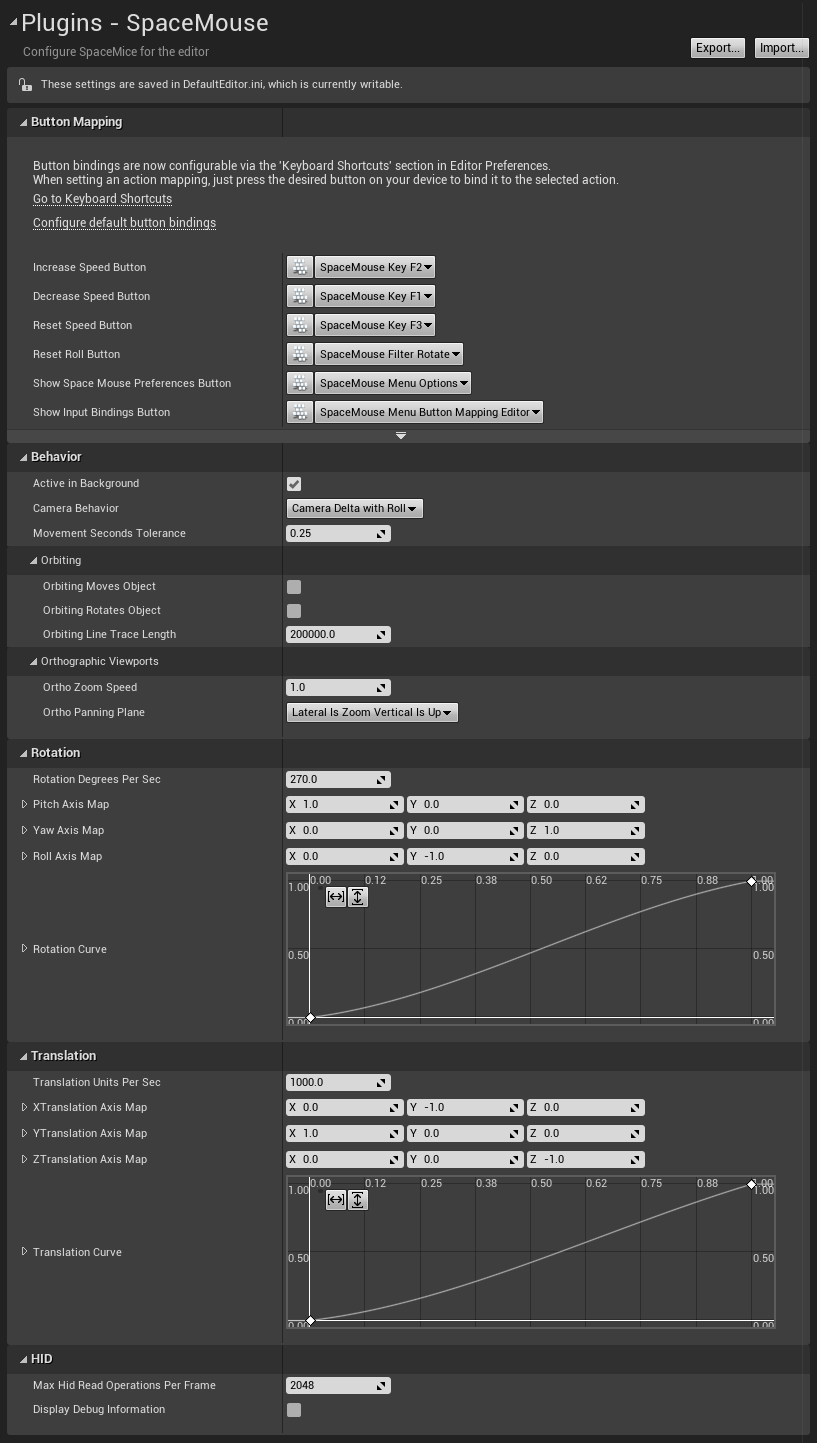
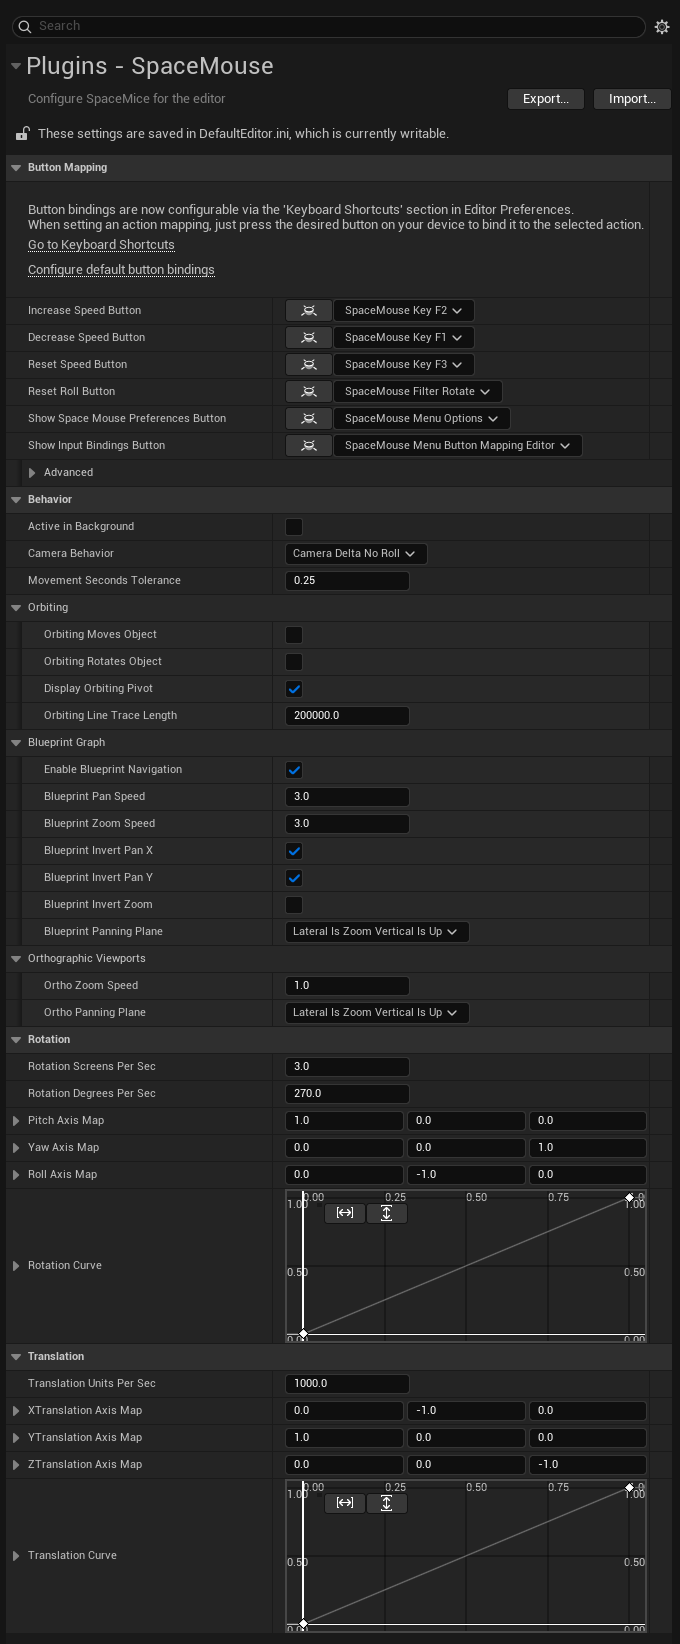
docs

diff --git a/README.md b/README.md
@@ -12,12 +12,15 @@ Previously "SpaceMouse for Unreal Engine" or "UE4-SpaceMouse". Name is changed t
   - [Behavior](#behavior)
     - [Orbiting](#orbiting)
     - [Orthographic viewports](#orthographic-viewports)
+    - [Blueprint and other graphs](#blueprint-and-other-graphs)
   - [Axis configuration](#axis-configuration)
   - [Misc](#misc)
 - [More info](#more-info)
   - [Changelog](#changelog)
-  - [Major changes from version 1.2](#major-changes-from-version-12)
-  - [Major changes from version 1.1](#major-changes-from-version-11)
+  - [Major changes in 2.0](#major-changes-in-20)
+  - [Major changes in 1.3](#major-changes-in-13)
+  - [Major changes in 1.2](#major-changes-in-12)
+  - [Major changes in 1.1](#major-changes-in-11)
   - [Build a release](#build-a-release)
   - [Build a release for Linux](#build-a-release-for-linux)
   - [Note on macOS support](#note-on-macos-support)
@@ -27,17 +30,18 @@ Previously "SpaceMouse for Unreal Engine" or "UE4-SpaceMouse". Name is changed t
 
 # Installation
   
-**Pre-Compiled for UE 4.23 .. 4.26.**
+**Pre-Compiled for Windows.**
 
 Demo video: https://youtu.be/owcSTzs8p-8
 
 **[Download manually for free](https://github.com/microdee/OpenUnrealSpaceMouse/releases/latest)**
 
-**[Buy it via the Marketplace](https://www.unrealengine.com/marketplace/en-US/product/spacemouse-for-unreal-engine)**
-
-**If you have a code project just use this repo as submodule**
-```
+**If you have a code project and want to compile this plugin instead then submodule this repository, submodule [MCRO](https://mcro.de/mcro/), and prepare them with [Nuke.Unreal](https://mcro.de/Nuke.Unreal/)**
+```pwsh
 git submodule add https://github.com/microdee/OpenUnrealSpaceMouse.git Plugins/SpaceMouse
+git submodule add https://github.com/microdee/mcro.git Plugins/MCRO
+# install Nuke.Unreal to your project
+nuke generate
 ```
 
 ## [Disclaimer about the new official plugin shipped by 3DConnexion](DISCLAIMER.md)
@@ -58,7 +62,7 @@ You can control any 3D editor viewport (Perspective or Ortho) currently in focus
 
 Transition speed is controllable via the camera speed setting and the camera speed scalar of the viewport. Camera speed can be increased or decreased with configurable buttons on the spacemice. Multiple devices are supported however their data is merged together into a global context.
 
-On default speeds (speed setting = 4) transition velocity is 1000 units/sec by default and rotation speed is 270°/sec by default. Rotation speed is not affected by camera speed settings. You can change these in the **Editor Preferences -> Plugins -> SpaceMouse** section.
+On default speeds transition velocity is 1000 units/sec. By default rotation speed is 270°/sec on Orbit camera modes and Roll. Rotation speed is not affected by camera speed settings. However it is affected by viewport FOV in CameraDelta modes. You can change these in the **Editor Preferences -> Plugins -> SpaceMouse** section.
 
 ![](Docs/Images/settings.png)
 
@@ -94,9 +98,9 @@ There's a pre-defined default set of bindings you can activate by clicking on _"
 
 **Orbiting Moves/Rotates Object** When true, SpaceMouse represents the Delta movement of "the object" in front of the camera (meaning axes are inverted)
 
-**Orbiting at Fixed Pivot Distance** When enabled, sets a fixed distance for the orbiting mode in UE4 units (usually cm).
+**Orbiting at Fixed Pivot Distance** When enabled, sets a fixed distance for the orbiting mode in Unreal units (usually cm).
 
-**Orbiting Line Trace Length** is the maximum possible radius of the orbiting behavior in UE4 units (usually cm).
+**Orbiting Line Trace Length** is the maximum possible radius of the orbiting behavior in Unreal units (usually cm).
 
 ### Orthographic viewports
 
@@ -108,31 +112,43 @@ Camera controls are slightly different when controlling an Orthographic viewport
 * **Lateral Is Zoom, Vertical Is Up**: Move puck orthogonal to the plane of the Monitor to move around, Push Forward / Pull Backward to zoom.
 * **Lateral Is Up, Vertical Is Zoom**: Move puck orthogonal to the plane of the Desk to move around, Push Down / Pull Up to zoom.
 
+### Blueprint and other graphs
+
+Navigating Blueprints and other visual DSL graphs in Unreal Editor is done the same way as Orthographic vieports. However they can be configured separately in **Blueprint Graph** category.
+
 ## Axis configuration
 
-**Axis mappings** are conversions between the space of spacemice and the space of UE4. You can invert rotations and translations here by flipping the sign. The default values are my subjective preferences (as you can see in the coordinate system image above).
+**Axis mappings** are conversions between the space of spacemice and the space of Unreal. You can invert rotations and translations here by flipping the sign. The default values are my subjective preferences (as you can see in the coordinate system image above).
 
 **Rotation/Translation Curve** are defining the 0..1 curvature from resting state to fully pushed/pulled state of the SpaceMouse puck. Dead-zone, clamping, exponent or other less useful transformations can be expressed with this. Default is 0..1 linear curve, which means no effect.
 
 ## Misc
 
-**Display Debug Information** prints HID data onto the viewport. You don't need to change **Max Hid Read Operations Per Frame**. Just ignore it.
-
 [Report bugs](https://github.com/microdee/OpenUnrealSpaceMouse/issues)
 
 [Have any feedback or ideas? Go to Discussions!](https://github.com/microdee/OpenUnrealSpaceMouse/discussions)
-
-[Unreal Forum (please prefer Github Discussions)](https://forums.unrealengine.com/unreal-engine/feedback-for-epic/437-support-for-space-navigator-3d-mouse?p=1609440#post1609440)
 
 # More info
 
 ## [Changelog](CHANGELOG.md)
 
-## Major changes from version 1.2
+## Major changes in 2.0
+
+* Rewritten in new and even more modular architecture.
+* SpaceMouse Enterprise has all its buttons working.
+* No need to restart the editor for plugging in new devices.
+* Automatically disable default 3DxWare mappings for Unreal Editor only.
+  * This fixes the ancient "bug" of "camera is jumping forward/backward"
+
+## Major changes in 1.3
+
+[@litruv](https://github.com/litruv) added graph navigation feature to this plugin, so you can navigate smoothly in you Blueprints, Materials, Niagara systems, or any other visual DSL in Unreal. In the same style as Blender allows you to do with the space-mice in their node-editors.
+
+## Major changes in 1.2
 
 The structure of SpaceMouse preferences has changed significantly. Upon updating from prior versions (<= 1.1.x) you might need to re-configure the plugin. Don't worry though, the button binding UX has been improved significantly.
 
-## Major changes from version 1.1
+## Major changes in 1.1
 
 Upon updating from prior versions (<= 1.0.x pre-marketplace) please delete both HIDUE and SpaceMouse plugins from your Engine or Project plugins folder!
 
@@ -142,7 +158,16 @@ Upon updating from prior versions (<= 1.0.x pre-marketplace) please delete both 
 
 ## Build a release
 
-If for any reason you cannot use this plugin as a submodule and you want to make a pre-built release to be an engine plugin, then work with the [official test project](https://github.com/microdee/OpenUnrealSpaceMouse-TestProject) and see the build instructions there.
+If for any reason you want to compile this plugin yourself or make a pre-built release to be an engine plugin, then work with the [official test project](https://github.com/microdee/OpenUnrealSpaceMouse-TestProject) and see the build instructions there.
+
+Otherwise if you don't wish to use that project you will need to have [MCRO](https://mcro.de/mcro/), and [Nuke.Unreal](https://mcro.de/Nuke.Unreal/) in order to build this plugin.
+
+```pwsh
+git submodule add https://github.com/microdee/OpenUnrealSpaceMouse.git Plugins/SpaceMouse
+git submodule add https://github.com/microdee/mcro.git Plugins/MCRO
+# install Nuke.Unreal to your project
+nuke generate
+```
 
 ## Build a release for Linux
 
@@ -160,7 +185,8 @@ To make a pre-built release for Linux, read the [Linux Build Guide](LINUX.md).
   * FIXED
 * ~~Upon exiting the editor the engine crashes. I know why it does that but I didn't figure it out quite yet how to prevent it.~~
   * FIXED
-* Jumping forward periodically when leaning / going forward with the camera
+* ~~Jumping forward periodically when leaning / going forward with the camera~~
+  * FIXED
   * __TL;DR:__ Open 3DxWare per-application settings and disable scroll-wheel emulation (disable tilt axis) (per-application settings are opened by the Menu button or bottom left button on your SpaceMouse by default)
   * [See issue](https://github.com/microdee/OpenUnrealSpaceMouse/issues/12)
 * If you install or update 3DxWare with their new plugin (TDxUnrealEditor), and you had this plugin before, you might experience undefined interaction glitches.
@@ -176,6 +202,8 @@ To make a pre-built release for Linux, read the [Linux Build Guide](LINUX.md).
 
 ## Credits
 
+* [@litruv](https://github.com/litruv) For panning BP graphs
+* [@TekuConcept](https://github.com/TekuConcept), [@ericotsn](https://github.com/ericotsn), [@DKingAlpha](https://github.com/DKingAlpha) For linux support
 * [HIDAPI](https://github.com/libusb/hidapi)
 * **Gabor Papp** for initially investigating macOS support
 * From UE4 forums:

diff --git a/CHANGELOG.md b/CHANGELOG.md
@@ -1,23 +1,29 @@
 
-# **2.0** (WIP)
+# **2.0** (Current)
 
-### **Goals:**
-
-[ ] Modernize source code
-
-And probably that's it. If there's a miracle and this project gets new momentum then new features will be in 2.1 or something. But this is not a promise.
+* Modernized source code refactored the entire plugin to be very modular
+* License changed to MPL instead of MIT
+* Devices are discovered during runtime, no need to restart the editor for connecting a device.
+* SpaceMouse Enterprise has all its buttons working.
+* Set default 3DxWare profiles for Unreal (and packaged applications) which no longer has mouse-wheel emulations and button bindings
+  * This fixes the ancient "bug" of "camera is jumping forward/backward"
+* Camera rotation speed in CameraDelta modes are dependent on the Viewport FoV
 
 # **1.3**
 
-That didn't happen.
+* Space-mice can navigate now visual DSL graphs in the editor (Blueprints, Materials, Niagara, etc.) (PR by [litruv](https://github.com/litruv))
+* Comply with viewport changes introduced in Unreal 5.6
 
-# **1.2** (Current) (Marketplace)
+## 1.3.1 (Fab)
 
-### **Goals:**
-* [x] Completely rewrite the SpaceMouseReader module to support more data sources and just have better code quality
-* [x] Participate properly in Unreal's Input Device system (have bindable `FKey`s and axes)
-* [x] Trigger Editor commands directly
-* [x] Support Orthographic viewports
+* Fix plugin platform filtering
+
+# **1.2**
+
+* Completely rewrite the SpaceMouseReader module to support more data sources and just have better code quality
+* Participate properly in Unreal's Input Device system (have bindable `FKey`s and axes)
+* Trigger Editor commands directly
+* Support Orthographic viewports
 
 ## 1.2.4
 
@@ -25,35 +31,35 @@ That didn't happen.
 
 ## 1.2.3-β
 * *RUNTIME*
-  * __^__ SpaceMouse buttons are now properly registered as `FKey`s and as such can be used as Blueprint input events or input events in Slate/UMG widgets
-  * __^__ Separated the single static Blueprint device data getter, into multiple nodes
+  * SpaceMouse buttons are now properly registered as `FKey`s and as such can be used as Blueprint input events or input events in Slate/UMG widgets
+  * Separated the single static Blueprint device data getter, into multiple nodes
 * *EDITOR*
-  * __\+__ **BREAKING CHANGE!** Configuration refactored to support new SpaceMouse `FKey`'s
+  * **BREAKING CHANGE!** Configuration refactored to support new SpaceMouse `FKey`'s
     * Configuration from previous versions will not work.
-  * __\+__ Use the `Keyboard Shortcuts` editor preferences to bind SpaceMouse buttons to any of the pre-existing editor commands
-  * __\+__ Added a "universal" default button binding until the per-device system is ready.
+  * Use the `Keyboard Shortcuts` editor preferences to bind SpaceMouse buttons to any of the pre-existing editor commands
+  * Added a "universal" default button binding until the per-device system is ready.
     * User needs to trigger this configuration from the SpaceMouse preferences
-  * __\+__ Added support for Orthographic viewports
-  * __\+__ Binding the `MenuOptions` SpaceMouse button to open the SpaceMouse preferences by default.
-  * __^__ **BREAKING CHANGE!** Fixed stupid spelling error for Orbiting (with one T).
+  * Added support for Orthographic viewports
+  * Binding the `MenuOptions` SpaceMouse button to open the SpaceMouse preferences by default.
+  * **BREAKING CHANGE!** Fixed stupid spelling error for Orbiting (with one T).
     * User has to re-select orbiting camera behaviors, and reconfigure their settings
 
 ## 1.2.2-α
 * *EDITOR*
-  * __^__ Internal button mappings for devices are complete (copied from Blender)
-  * __^__ Fixed a bug with Universal Receiver not having
-  * __\+__ Started MacOS support but ran into a roadblock issue
+  * Internal button mappings for devices are complete (copied from Blender)
+  * Fixed a bug with Universal Receiver not having
+  * Started MacOS support but ran into a roadblock issue
 
 ## 1.2.1-α
 * *EDITOR*
-  * __\+__ Started support for device type detection and button configuration
-  * __\+__ Test release for the SpaceMouseReader rewrite
+  * Started support for device type detection and button configuration
+  * Test release for the SpaceMouseReader rewrite
 
 ## 1.2.0-α
 * *READER*
-  * __^__ Rewrote the device data reader module so it can support more features, and it has higher quality of code and architecture
-  * __\+__ Among many other benefits it introduced Normalized device data as output.
-  * __\+__ Test release for the SpaceMouseReader rewrite
+  * Rewrote the device data reader module so it can support more features, and it has higher quality of code and architecture
+  * Among many other benefits it introduced Normalized device data as output.
+  * Test release for the SpaceMouseReader rewrite
 
 # **1.1** (Current) (Marketplace)
 
@@ -63,10 +69,10 @@ That didn't happen.
 # **?.?** (future)
 
 ### **Goals:**
-* [ ] Deal with the TDxUnrealEd collision
-* [ ] Use space mice in any spatial editor, not just viewports like
-  * Blueprint/Material/Niagara/etc graph editors
-  * Sequencers/timelines
-  * Curve editors
-  * etc
+* [x] Deal with the TDxUnrealEd collision
+  * This is dealt with creating xml config files in 3DxWare user settings folder.
+* Use space mice in any spatial editor, not just viewports like
+  * [x] Blueprint/Material/Niagara/etc graph editors
+  * [ ] Sequencers/timelines
+  * [ ] Curve editors
 

diff --git a/LINUX.md b/LINUX.md
@@ -1,14 +1,14 @@
-# UE4-SpaceMouse Build Guide for Linux
+# OpenUnrealSpaceMouse Build Guide for Linux
 
-This guide will help you get up and running with the UE4-SpaceMouse plugin on Linux.
+This guide will help you get up and running with the OpenUnrealSpaceMouse plugin on Linux.
 
 ## Compatibility
 
 The installation process detailed in this guide has been validated to work on the following system configurations:
 
-| Operating System | Engine                  |
-|------------------|-------------------------|
-| Linux Mint 21.2  | UE 5.2.1 (pre-compiled) |
+| Operating System | Engine                 |
+|------------------|------------------------|
+| Linux Mint 21.2  | UE 5.3+ (pre-compiled) |
 
 ## Prerequisites
 
@@ -22,25 +22,37 @@ If you intend to use your SpaceMouse for any other software you should consider 
 
 ## Building
 
-UE4-SpaceMouse doesn't currently provide a pre-built plugin for Linux, so we have to build our own release before installation.
+OpenUnrealSpaceMouse doesn't currently provide a pre-built plugin for Linux, so we have to build our own release before installation.
 
-Download the plugin source code from the [release page](https://github.com/microdee/UE4-SpaceMouse/releases) or clone the repository:
+1. Clone this repository, clone [MCRO](https://mcro.de/mcro/), and install [Nuke.Unreal](https://mcro.de/Nuke.Unreal/) into your project
 
-```
-git clone --recurse-submodules https://github.com/microdee/UE4-SpaceMouse.git
-```
-
-UE4-SpaceMouse includes additional submodules as dependencies, so it's important to clone these as well.
-
-Build the plugin using the `RunUAT.sh` script bundled with the engine. Use the following command. Don't forget to completing each path with your local installation directory:
-
-```
-Engine/Build/BatchFiles/RunUAT.sh BuildPlugin \
--Plugin="UE4-SpaceMouse/SpaceMouse.uplugin" \
--Package="UE4-SpaceMouse/Out/Linux"
+```sh
+git clone --recurse-submodules https://github.com/microdee/OpenUnrealSpaceMouse.git
+git clone --recurse-submodules https://github.com/microdee/mcro.git
+dotnet tool install Nuke.GlobalTool --global
 ```
 
-After completion you will find the compiled plugin in the `UE4-SpaceMouse/Out/Linux` directory.
+2. [Download the Nuke.Unreal bootstrap](https://github.com/microdee/Nuke.Unreal/releases/tag/Fresh) and extract it into your project root
+3. Point nuke to your Unreal installation
+
+```sh
+nuke switch --Unreal ~/MyUnrealStuff/UE_5.6
+```
+
+4. Make an archived release
+
+```sh
+nuke BuildOuesm
+```
+
+5. Your release should show up in `.deploy` folder
+6. Or alternatively you can just build your project with Nuke now (`prepare` only needs to be done once)
+
+```sh
+nuke prepare build-editor
+```
+
+Nuke.Unreal is not well tested on Linux but it should work, please report issues on Linux so I can support it better.
 
 ### Troubleshooting
 
@@ -50,11 +62,13 @@ If you've installed local toolchains for C/C++ development using system packages
 
 ## Installation
 
-After building the plugin copy the `UE4-SpaceMouse/Out/Linux` folder into your project's `Plugins` directory, changing the name in the process to `SpaceMouse`.
+If you just want to use this in your project then you need to [prepare](https://mcro.de/Nuke.Unreal/d3/de9/Targets.html#target-prepare)/[generate](https://mcro.de/Nuke.Unreal/d3/de9/Targets.html#target-generate) your project with [Nuke.Unreal](https://mcro.de/Nuke.Unreal/) and then you can use them as usual.
+
+If you want to make an engine plugin then you can use the archives which `BuildOuesm` has created.
 
 Start the Unreal Editor and verify that the plugin is enabled in **Edit > Plugins > Input Devices**. Then check that plugin settings are available in **Edit > Editor Preferences > Plugins > SpaceMouse**.
 
-Your'e now ready to use your 3DConnexion hardware! Review the [README](README.md) for additional configuration options and how to use the plugin.
+Your're now ready to use your 3DConnexion hardware! Review the [README](README.md) for additional configuration options and how to use the plugin.
 
 ### Troubleshooting
 

diff --git a/DISCLAIMER.md b/DISCLAIMER.md
@@ -6,10 +6,11 @@ TDxUnrealEditor is installed automatically when you install or update the offici
 
 |                                                   Feature |    TDxUnrealEditor     | Open Unreal SpaceMouse |
 | --------------------------------------------------------: | :--------------------: | :--------------------: |
-|                                               Open-Source | ❌ <sup>[1](#f1)</sup> |           ✔           |
+|                                               Open-Source | ✔ <sup>[1](#f1)</sup> |           ✔           |
 |                       Unified 3DxWare features/navigation | ✔ <sup>[2](#f2)</sup> |           ❌           |
 |                       Custom navigation scheme for Unreal |           ❌           |           ✔           |
 | Control any 3D viewport in the editor <sup>[3](#f3)</sup> |           ✔           |           ✔           |
+|    Control Blueprint and other graphs <sup>[8](#f8)</sup> |           ❌           |           ✔           |
 |                                          Supports Windows |           ✔           |           ✔           |
 |                                            Supports Linux |           ❌           |           ✔           |
 |                                              Supports Mac |           ✔           |           ❌           |
@@ -31,13 +32,14 @@ Further differences
 | TDxUnrealEditor                                         | Open Unreal SpaceMouse                               |
 | ------------------------------------------------------- | ---------------------------------------------------- |
 | Better orbit/object mode implementation                 | Orbit/object mode is more barebones                  |
-| Configurable via 3DxWare                                | Configurable from UE4 Editor Preferences             |
+| Configurable via 3DxWare                                | Configurable from Unreal Editor Preferences          |
 | Fit selection to viewport is implemented by 3DConnexion | Uses vanilla Unreal fit to viewport function (F key) |
 
 * This is not a complete list, and it might change with updates
-* <a name="f1">1</a> because of this I couldn't compare implementation differences
+* <a name="f1">1</a> the bridge code between Unreal and the 3DConnexion SDK is now source-available when installing through Fab
 * <a name="f2">2</a> This also allows you to sync your preferences accross multiple applications, Open Unreal SpaceMouse obviously cannot provide or read that.
 * <a name="f3">3</a> Including skeletal and static mesh editors, material preview, niagara editors, or really anything which provides a camera to control
 * <a name="f4">4</a> Not to my knowledge anyway.
 * <a name="f6">6</a> Both via Blueprint and the Input framework
 * <a name="f7">7</a> Last time I've seen it didn't do that.
+* <a name="f8">8</a> This include material editor, niagara systems, behavior trees, anything which has a graph of nodes
